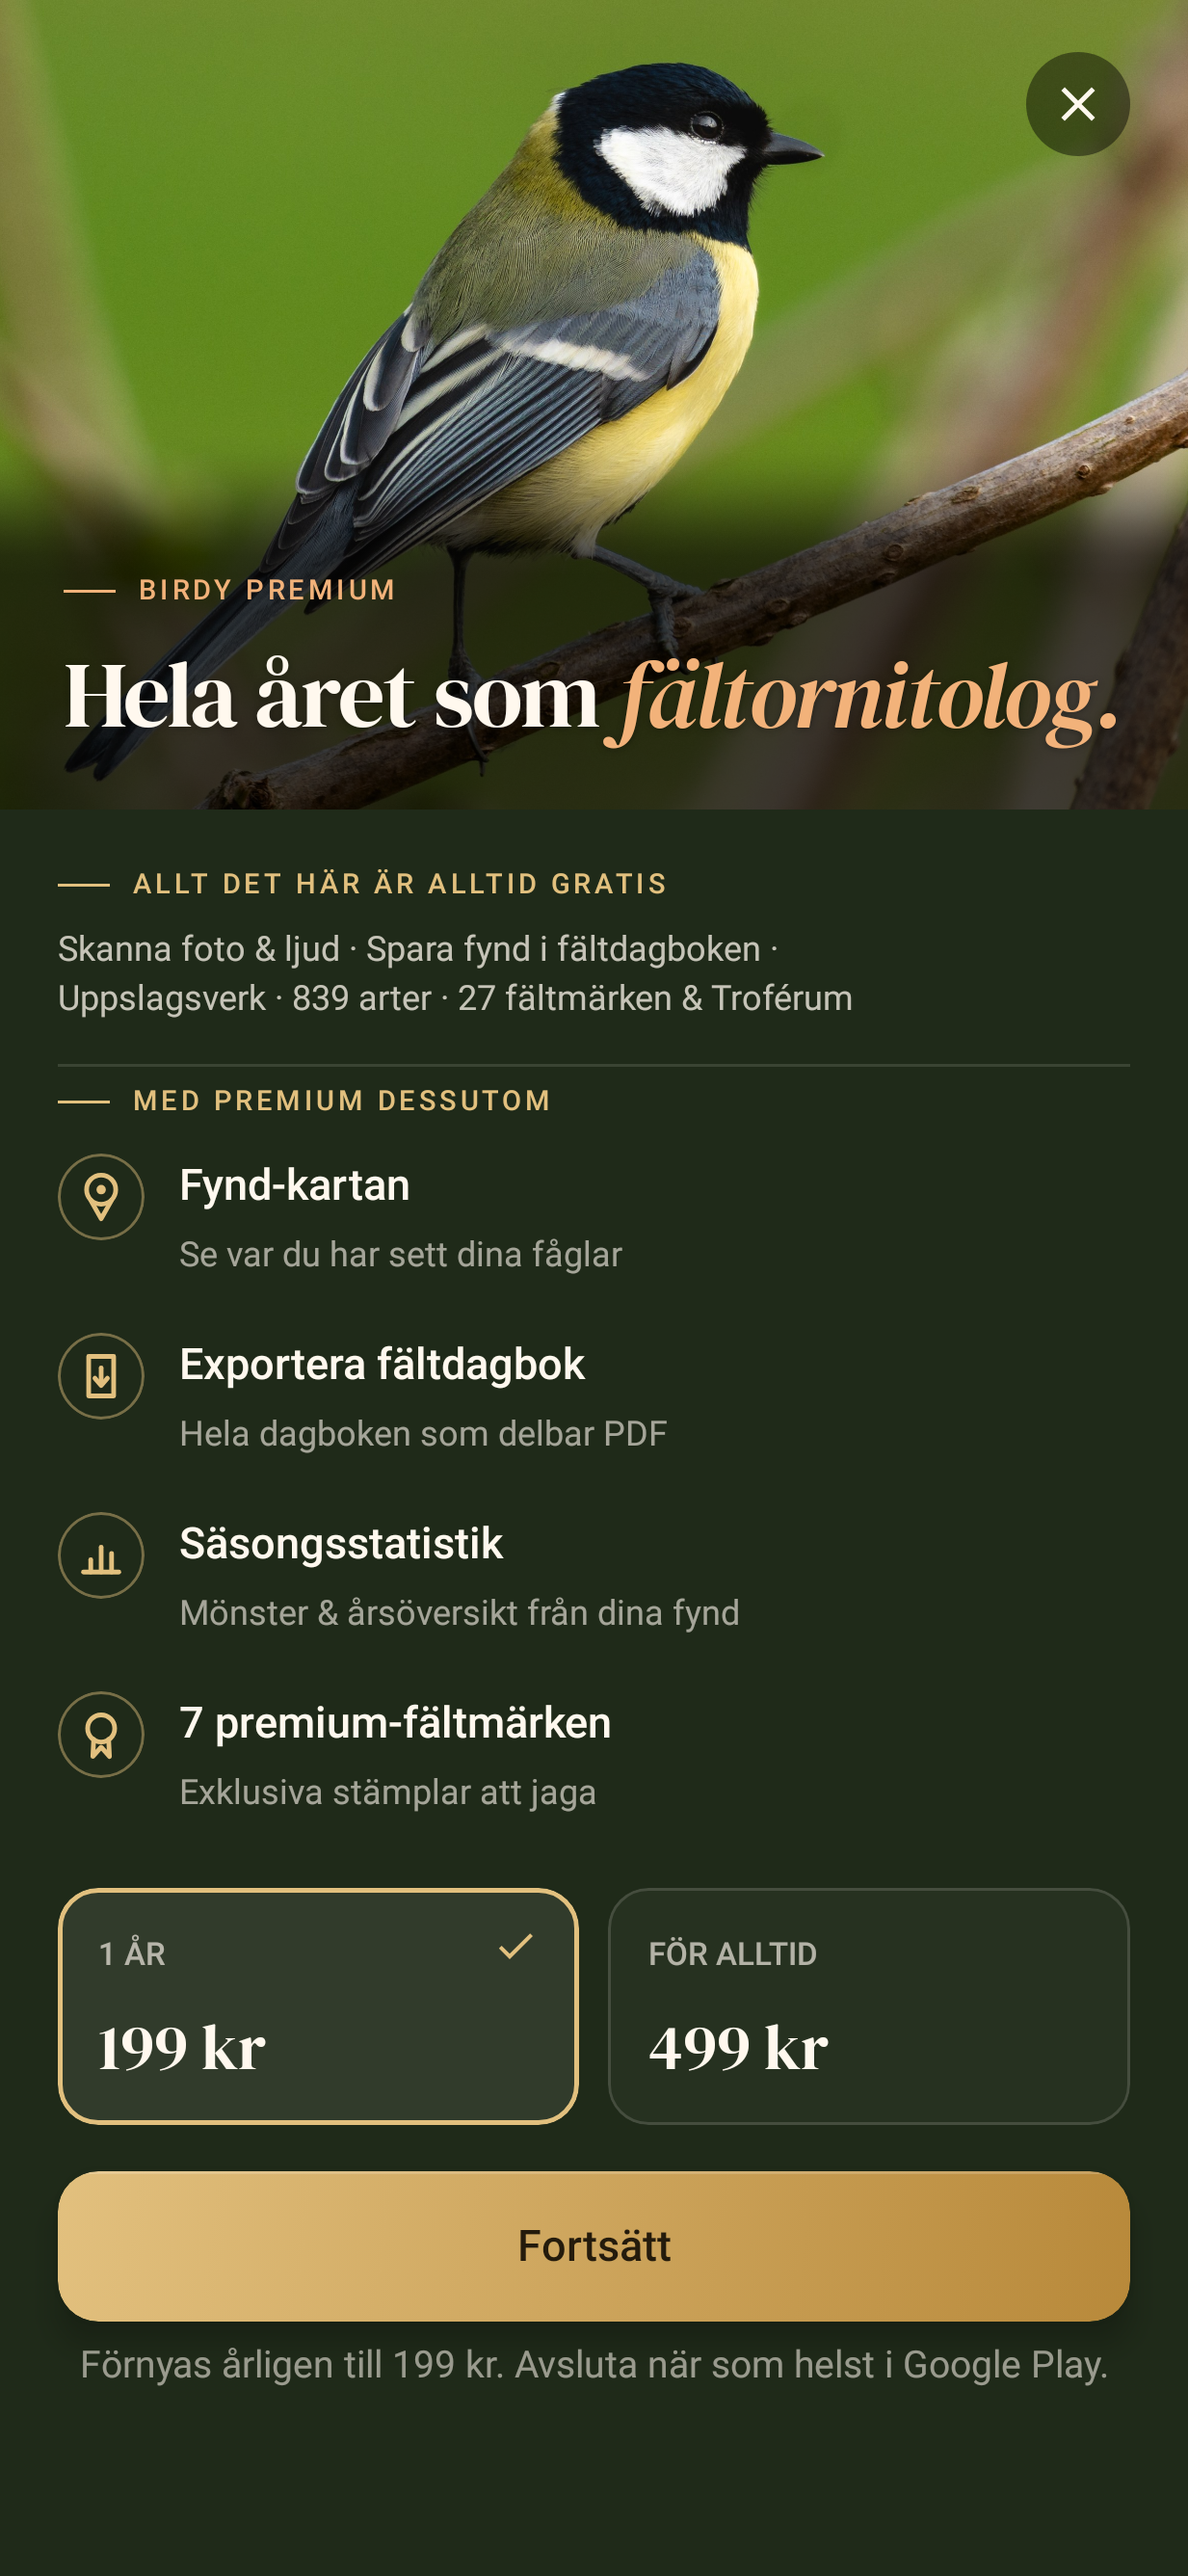
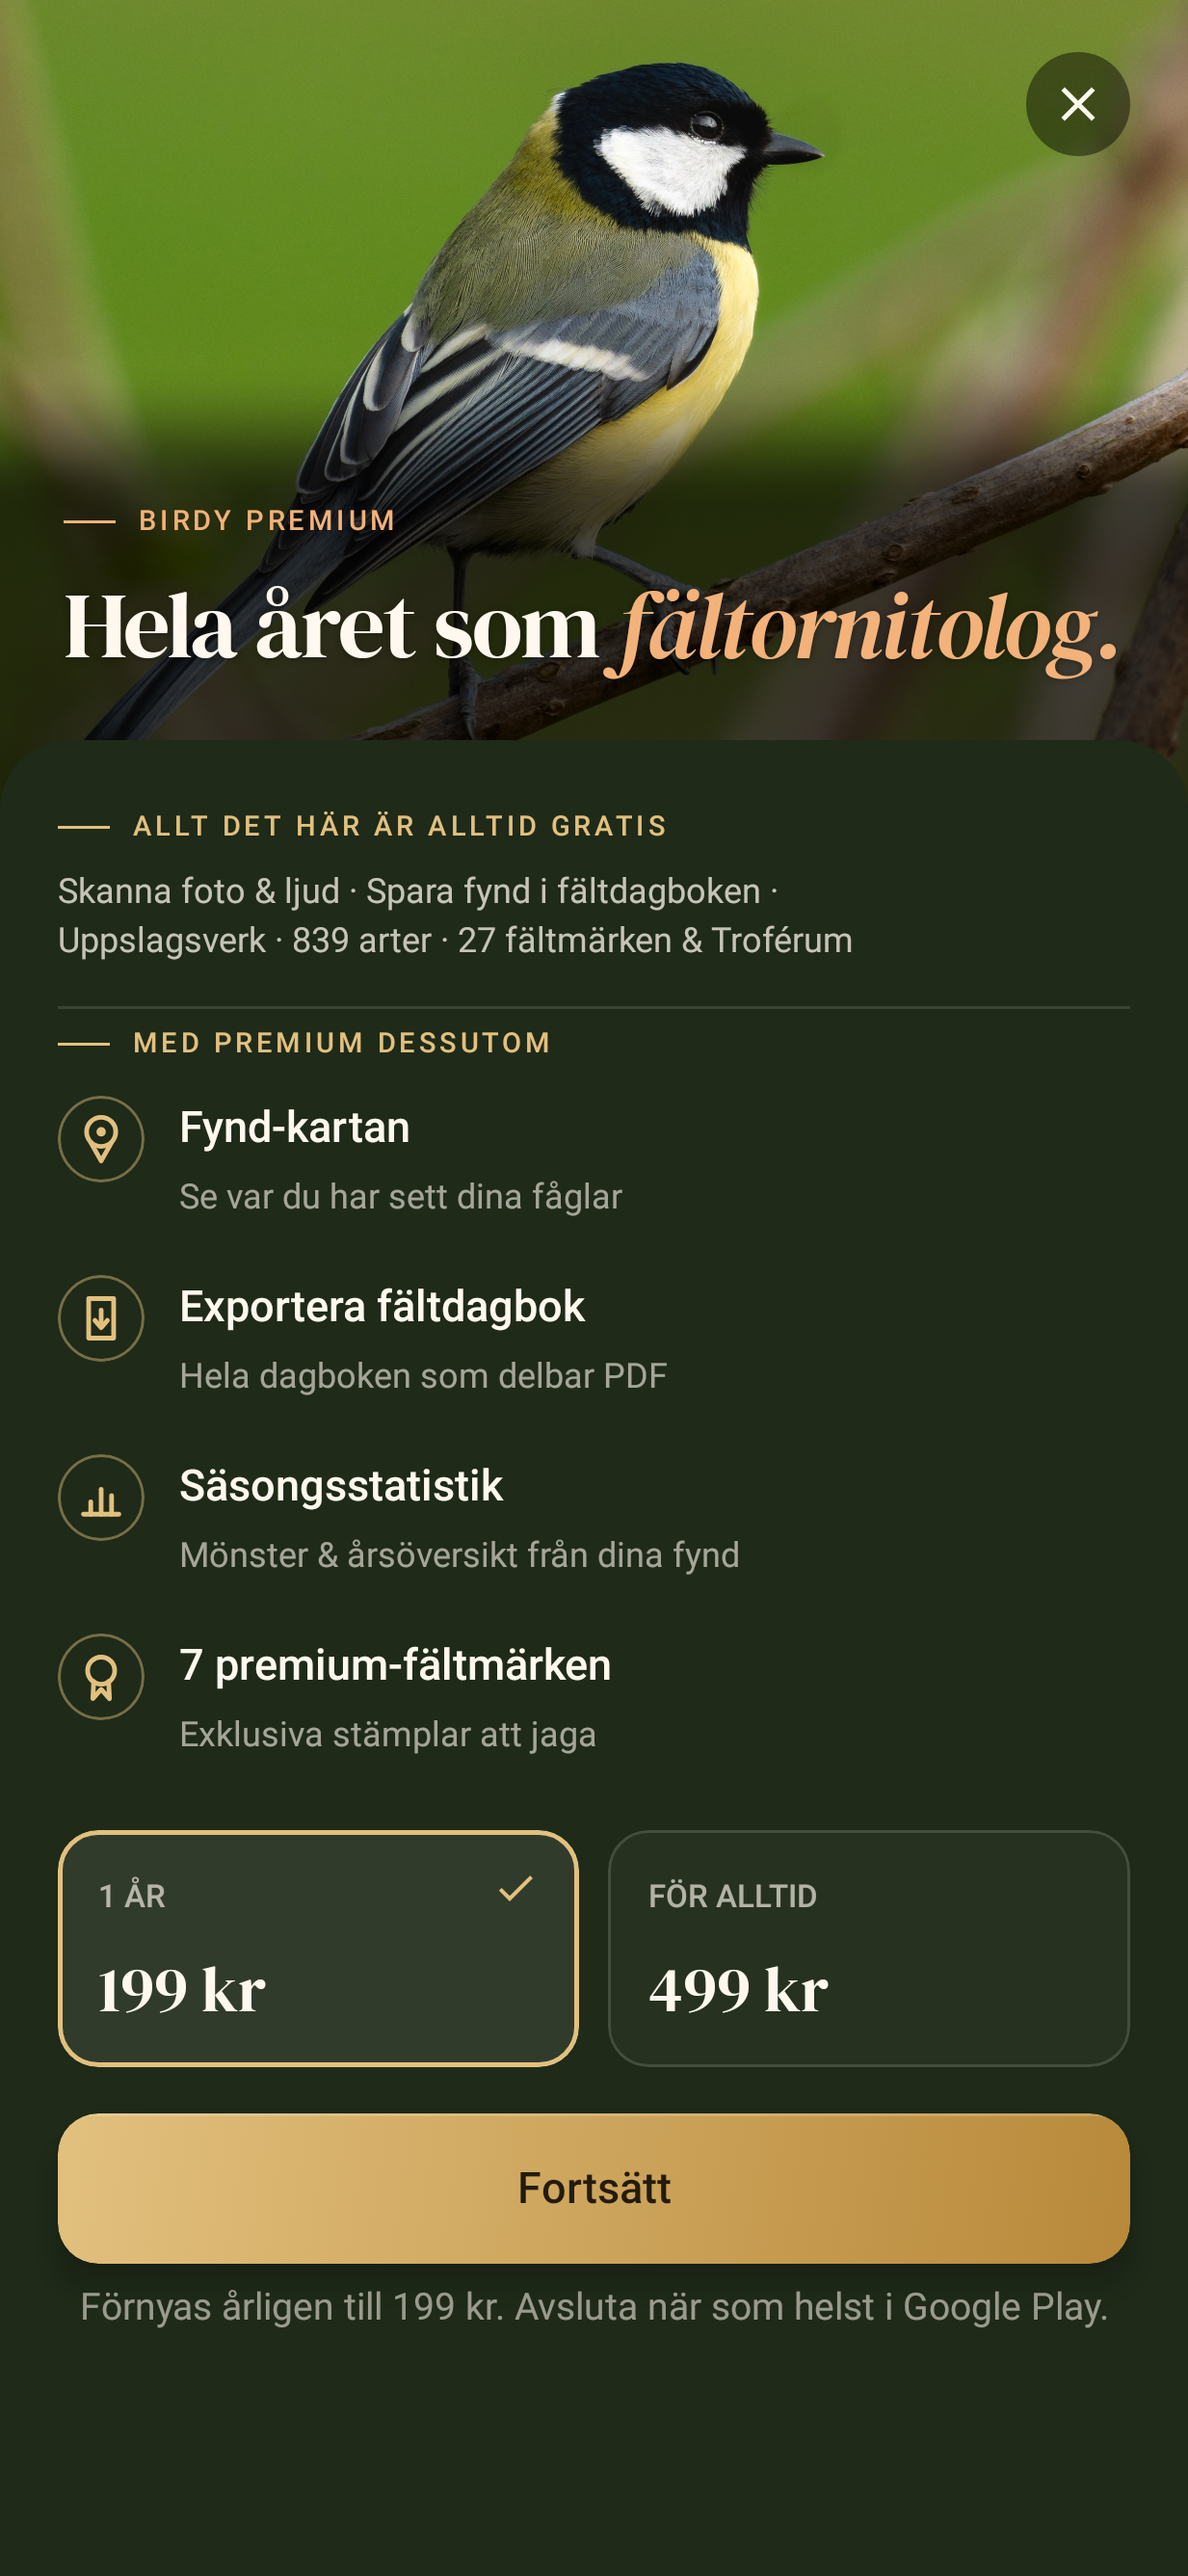
fix(ui): Premium-fotot slutar under mossidans rundade kant, inte på en hård linje
Granskningen av ca0a2741: utan mossrampen slutade fotot på Premium och
tack-skärmen i en hård linje mot mossidan. Ingen ton läggs tillbaka över
fotot; i stället börjar mossidan med samma rundade kant som PaperSheet
på artprofilen och Match. Nya PaperSheetTop är bara kanten (24 dp hörn,
lappar upp PaperSheetOverlap över heron, ingen egen höjd), eftersom
sidorna är LazyColumns med separata rader. Heron får
bottomPadding = PaperSheetOverlap + 18.dp så rubriken går fri från kanten,
och avståndet från kanten till första raden blir 24 dp (spacern på 20 dp
respektive brödtextens toppmarginal på 16 dp togs bort). Kontrasttesterna
för Premium-texterna är oförändrade (allt står på HeroMossDeep).
Efterbild för tack-skärmen tillagd.

Changed region(s): [[0.0, 0.1553, 1.0, 0.9315], [0.9246, 0.7142, 0.9554, 0.7452]]

diff --git a/composeApp/src/commonMain/kotlin/se/birdy/app/ui/premium/PremiumThankYouScreen.kt b/composeApp/src/commonMain/kotlin/se/birdy/app/ui/premium/PremiumThankYouScreen.kt
@@ -33,6 +33,8 @@ import org.jetbrains.compose.resources.StringResource
 import org.jetbrains.compose.resources.stringResource
 import se.birdy.app.ui.components.BirdyPremiumButton
 import se.birdy.app.ui.components.HeadlineSegment
+import se.birdy.app.ui.components.PaperSheetOverlap
+import se.birdy.app.ui.components.PaperSheetTop
 import se.birdy.app.ui.components.PhotoHero
 import se.birdy.app.ui.components.PlatformBackHandler
 import se.birdy.app.ui.components.ReportStatusBarBackdrop
@@ -69,13 +71,16 @@ fun PremiumThankYouScreen(onClose: () -> Unit) {
                 accent = accent,
             )
         }
+        // The photo ends under the moss page's rounded edge, not on a hard line (2026-10-06).
+        // The edge itself leaves 24dp above the body, like a PaperSheet's padding.
+        item { PaperSheetTop(color = HeroMossDeep) }
         item {
             Text(
                 text = stringResource(Res.string.premium_thanks_body),
                 color = TextOnHero.copy(alpha = PREMIUM_THANKS_BODY_ALPHA),
                 fontSize = 14.sp,
                 lineHeight = 21.sp,
-                modifier = Modifier.padding(horizontal = 22.dp, vertical = 16.dp),
+                modifier = Modifier.padding(start = 22.dp, end = 22.dp, bottom = 16.dp),
             )
         }
         items(premiumFeatures) { feature -> ThanksFeatureRow(feature.title) }
@@ -115,6 +120,7 @@ private fun ThanksHero(
         title = plain,
         titleAccent = accent,
         height = 280.dp,
+        bottomPadding = PaperSheetOverlap + 18.dp,
         drawBehindStatusBar = true,
         image = { PremiumHeroPhoto() },
     )

diff --git a/composeApp/src/commonMain/kotlin/se/birdy/app/ui/premium/PremiumScreen.kt b/composeApp/src/commonMain/kotlin/se/birdy/app/ui/premium/PremiumScreen.kt
@@ -86,6 +86,8 @@ import org.jetbrains.compose.resources.stringResource
 import se.birdy.app.ui.components.BirdyPremiumButton
 import se.birdy.app.ui.components.GlassIconButton
 import se.birdy.app.ui.components.MicroLabel
+import se.birdy.app.ui.components.PaperSheetOverlap
+import se.birdy.app.ui.components.PaperSheetTop
 import se.birdy.app.ui.components.PhotoHero
 import se.birdy.app.ui.components.ReportStatusBarBackdrop
 import se.birdy.app.ui.theme.BrassLight
@@ -137,7 +139,9 @@ fun PremiumScreen(
                 ),
         ) {
             item { PremiumHero() }
-            item { Spacer(Modifier.height(20.dp)) }
+            // The photo ends under the moss page's rounded edge, not on a hard line (2026-10-06).
+            // The edge itself leaves 24dp above the first section, like a PaperSheet's padding.
+            item { PaperSheetTop(color = HeroMossDeep) }
             item { FreeSummarySection() }
             item { Spacer(Modifier.height(6.dp)) }
             item { PremiumDivider() }
@@ -252,6 +256,7 @@ private fun PremiumHero() {
         title = stringResource(Res.string.premium_headline_plain),
         titleAccent = stringResource(Res.string.premium_headline_accent),
         height = 280.dp,
+        bottomPadding = PaperSheetOverlap + 18.dp,
         drawBehindStatusBar = true,
         image = { PremiumHeroPhoto() },
     )

diff --git a/composeApp/src/commonMain/kotlin/se/birdy/app/ui/components/PhotoHero.kt b/composeApp/src/commonMain/kotlin/se/birdy/app/ui/components/PhotoHero.kt
@@ -470,6 +470,29 @@ fun PaperSheet(
 }
 
 /**
+ * Just the rounded top edge of a [PaperSheet], for a screen whose content after the [PhotoHero]
+ * is a LazyColumn of separate items rather than one sheet (Premium and the thank-you screen):
+ * it rides up over the hero by [overlap] exactly like a sheet does, so the photo ends under a
+ * rounded edge instead of on a hard line, and it takes no height of its own, so the items below
+ * keep their places. Nothing is drawn over the photo outside the edge itself. The hero above
+ * needs `bottomPadding = PaperSheetOverlap + 18.dp`, and the screen behind must be [color].
+ */
+@Composable
+fun PaperSheetTop(
+    color: Color,
+    modifier: Modifier = Modifier,
+    overlap: Dp = PaperSheetOverlap,
+) {
+    Box(
+        modifier
+            .fillMaxWidth()
+            .overlapUpward(overlap)
+            .height(overlap)
+            .background(color, RoundedCornerShape(topStart = 24.dp, topEnd = 24.dp)),
+    )
+}
+
+/**
  * Pulls the content up by [overlap] without leaving a gap the size of [overlap] in the
  * parent's layout. A plain `Modifier.offset(y = -overlap)` moves the drawing but not the
  * measured size, so the parent still reserves the un-overlapped height and a strip of
